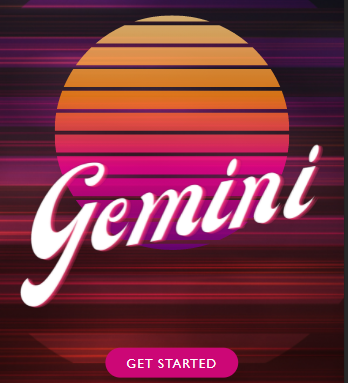
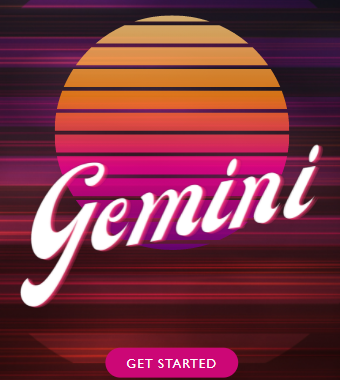
moditified gemini photos to be the same dimensions

diff --git a/client/src/components/Ticker/Ticker.js b/client/src/components/Ticker/Ticker.js
@@ -8,10 +8,10 @@ class Ticker extends Component {
             <section className='ticker__section'>
                 <div class="ticker__wrap">
                     <div class="ticker">
-                        <div class="ticker__item">Local Web Developer Seeking Work 👀</div>
-                        <div class="ticker__item">⛈ 95% Chance Of Job Offers ⛈</div>
-                        <div class="ticker__item">Gemini Stocks 💹 At All Time High</div>
-                        <div class="ticker__item">Web Developer Saves Kitten 🐈 From Burning Car 🚗🔥, Hero</div>
+                        <div class="ticker__item">🚨 Actively Looking For Work </div>
+                        <div class="ticker__item">Recent BrainStation 🧠 Graduate</div>
+                        <div class="ticker__item">Working on my own projects 💻 github.come/nick-albu</div>
+                        <div class="ticker__item">Constantly learning 🤓</div>
                     </div>
                 </div>
             </section>

diff --git a/client/src/components/Projects/Projects.scss b/client/src/components/Projects/Projects.scss
@@ -18,15 +18,16 @@
         border-radius: 5px;
         display: flex;
         flex-direction: column;
-        align-items: flex-end;
+        align-items: center;
         background-color: rgba(0, 0, 0, 0.404);
     }
     &__itemHeader {
         font-size: 1.35rem;
         color: $Egg;
+        padding: 0;
     }
     &__itemBody {
-        text-align: right;
+        text-align: center;
         color: $Egg;
         font-size: 1rem;
         padding: 1rem;
